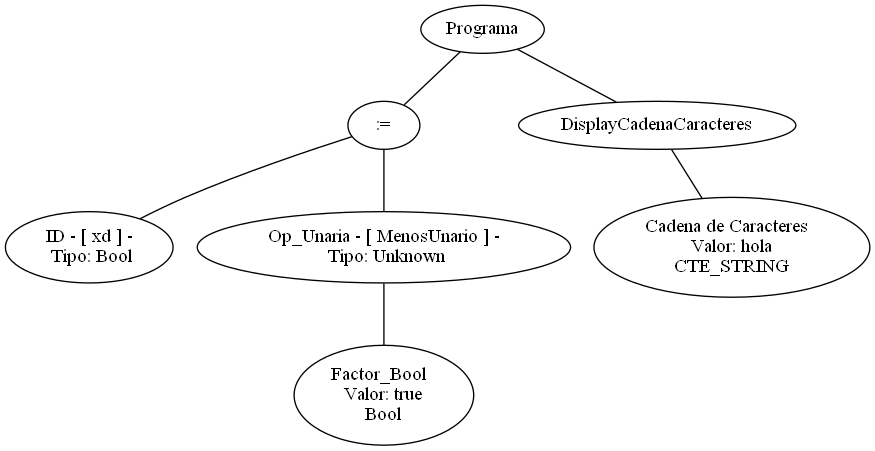
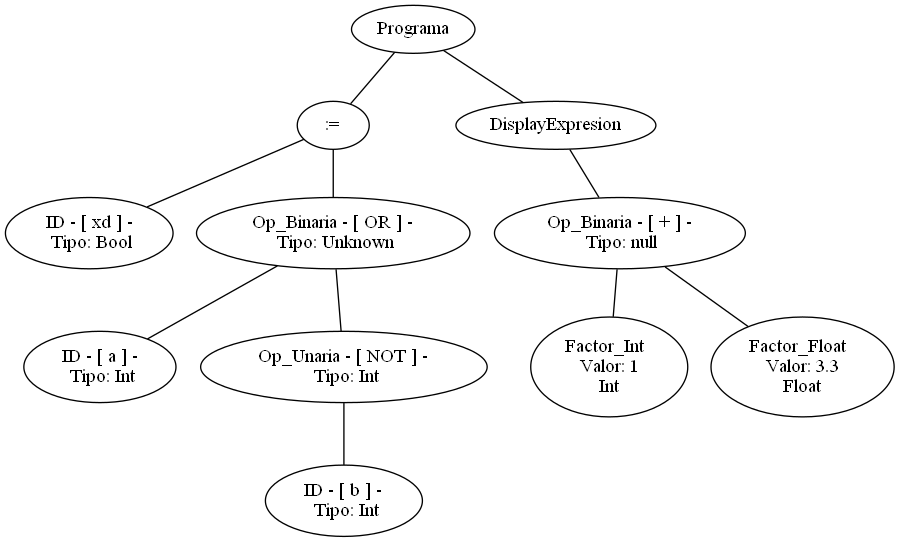
CambiosAST

diff --git a/TrabajoCompiladores/src/archivos/jflexyjcup/MiParser.java b/TrabajoCompiladores/src/archivos/jflexyjcup/MiParser.java
@@ -435,7 +435,6 @@ public class MiParser extends java_cup.runtime.lr_parser {
        }
 
 
-
 /** Cup generated class to encapsulate user supplied action code.*/
 @SuppressWarnings({"rawtypes", "unchecked", "unused"})
 class CUP$MiParser$actions {
@@ -915,7 +914,7 @@ class CUP$MiParser$actions {
             concat_rules("REGLA 6: sentencia_display --> DISPLAY ( exp_or ) " + "\n\t --> " + " display( " + c + " ) ");
             //concat_rules("Regla 6: sentencia_display --> "+ "display( " + c + " )");
             //RESULT = "display(" + c + ")";
-            RESULT = new DisplayExpresion(c);
+            RESULT = new DisplayExpresion("DisplayExpresion",c);
         
               CUP$MiParser$result = parser.getSymbolFactory().newSymbol("sentencia_display",5, ((java_cup.runtime.Symbol)CUP$MiParser$stack.elementAt(CUP$MiParser$top-3)), ((java_cup.runtime.Symbol)CUP$MiParser$stack.peek()), RESULT);
             }
@@ -1037,7 +1036,7 @@ class CUP$MiParser$actions {
         concat_rules("REGLA 7.5: exp_not --> NOT exp_not " + "\n\t --> " + e1);
         //concat_rules("REGLA 7.5: exp_not --> "+e1 );
         //RESULT = e1 ;
-        RESULT = new NOT(e1,Tipo.Bool);
+        RESULT = new NOT("NOT",e1,e1.getTipo());
     
               CUP$MiParser$result = parser.getSymbolFactory().newSymbol("exp_not",18, ((java_cup.runtime.Symbol)CUP$MiParser$stack.elementAt(CUP$MiParser$top-1)), ((java_cup.runtime.Symbol)CUP$MiParser$stack.peek()), RESULT);
             }
@@ -1215,7 +1214,7 @@ class CUP$MiParser$actions {
         concat_rules("REGLA 7.7: expresion --> expresion SUMA termino " + "\n\t --> " + e1 +" + "+ e2);
         //concat_rules("REGLA 7.7: expresion --> "+e1+" + "+e2);
         //RESULT = new Suma(e1,e2);
-        RESULT = new Suma("+",Tipo.Unknown,e1,e2) ;
+        RESULT = new Suma("+",e1,e2) ;
     
               CUP$MiParser$result = parser.getSymbolFactory().newSymbol("expresion",11, ((java_cup.runtime.Symbol)CUP$MiParser$stack.elementAt(CUP$MiParser$top-2)), ((java_cup.runtime.Symbol)CUP$MiParser$stack.peek()), RESULT);
             }
@@ -1234,7 +1233,7 @@ class CUP$MiParser$actions {
 		
         concat_rules("REGLA 7.8: expresion --> expresion RESTA termino " + "\n\t --> " + e1 + " - " + e2);
         //concat_rules("REGLA 7.8: expresion --> "+e1+" - "+e2);
-        RESULT = new Resta("-",Tipo.Unknown,e1,e2) ;
+        RESULT = new Resta("-",e1,e2) ;
     
               CUP$MiParser$result = parser.getSymbolFactory().newSymbol("expresion",11, ((java_cup.runtime.Symbol)CUP$MiParser$stack.elementAt(CUP$MiParser$top-2)), ((java_cup.runtime.Symbol)CUP$MiParser$stack.peek()), RESULT);
             }
@@ -1269,7 +1268,7 @@ class CUP$MiParser$actions {
 		
         concat_rules("REGLA 7.9.1: termino --> termino MULT menor_unario " + "\n\t --> " + t + " * " + mu);
         //concat_rules("REGLA 7.9.1: termino --> " + t + " * " + mu );
-        RESULT = new Multiplicacion("*",Tipo.Unknown,t,mu) ; ;
+        RESULT = new Multiplicacion("*",t,mu) ; ;
     
               CUP$MiParser$result = parser.getSymbolFactory().newSymbol("termino",14, ((java_cup.runtime.Symbol)CUP$MiParser$stack.elementAt(CUP$MiParser$top-2)), ((java_cup.runtime.Symbol)CUP$MiParser$stack.peek()), RESULT);
             }
@@ -1288,7 +1287,7 @@ class CUP$MiParser$actions {
 		
         concat_rules("REGLA 7.9.2: termino --> termino DIV menor_unario " + "\n\t --> " + t + " / " + mu);
         //concat_rules("REGLA 7.9.2: termino --> " + t + " / " + mu );
-        RESULT = new Division("/",Tipo.Unknown,t,mu);
+        RESULT = new Division("/",t,mu);
     
               CUP$MiParser$result = parser.getSymbolFactory().newSymbol("termino",14, ((java_cup.runtime.Symbol)CUP$MiParser$stack.elementAt(CUP$MiParser$top-2)), ((java_cup.runtime.Symbol)CUP$MiParser$stack.peek()), RESULT);
             }
@@ -1320,7 +1319,7 @@ class CUP$MiParser$actions {
 		
         concat_rules("REGLA 8.1: menos_unario --> - menor_unario " + "\n\t --> " + "- " +mu);
         //concat_rules("REGLA 8.1: menos_unario --> -" + mu );
-        RESULT = new MenosUnario("MenosUnario", mu, Tipo.Unknown);
+        RESULT = new MenosUnario("MenosUnario", mu,mu.getTipo());
 
     
               CUP$MiParser$result = parser.getSymbolFactory().newSymbol("menos_unario",13, ((java_cup.runtime.Symbol)CUP$MiParser$stack.elementAt(CUP$MiParser$top-1)), ((java_cup.runtime.Symbol)CUP$MiParser$stack.peek()), RESULT);

diff --git a/TrabajoCompiladores/src/archivos/jflexyjcup/ast/Operaciones/unarias/NOT.java b/TrabajoCompiladores/src/archivos/jflexyjcup/ast/Operaciones/unarias/NOT.java
@@ -5,7 +5,7 @@ import archivos.jflexyjcup.ast.Base.Tipo;
 
 public class NOT extends OperacionUnaria{
     public NOT(Expresion expresion, Tipo tipo) {
-        super(expresion, tipo);
+        super(expresion, expresion.getTipo());
     }
 
     public NOT(String nombre, Expresion expresion) {
@@ -13,6 +13,13 @@ public class NOT extends OperacionUnaria{
     }
 
     public NOT(String nombre, Expresion expresion, Tipo tipo) {
-        super("NOT", expresion, tipo);
+        super("NOT", expresion, expresion.getTipo());
+    }
+    @Override
+    public String graficar(String idPadre) {
+        StringBuilder resultado = new StringBuilder();
+        resultado.append(super.graficar(idPadre));
+        resultado.append(this.getExpresion().graficar(this.getId()));
+        return resultado.toString();
     }
 }

diff --git a/TrabajoCompiladores/src/archivos/jflexyjcup/GenerarDOT.java b/TrabajoCompiladores/src/archivos/jflexyjcup/GenerarDOT.java
@@ -2,6 +2,8 @@ package archivos.jflexyjcup;
 
 import archivos.jflexyjcup.ast.Base.Programa;
 
+import java.awt.*;
+import java.io.File;
 import java.io.FileReader;
 import java.io.FileWriter;
 import java.io.PrintWriter;
@@ -20,6 +22,7 @@ public class GenerarDOT {
             grafico.close();
             String cmdDot = "dot -Tpng arbol.dot -o arbol.png";
             Runtime.getRuntime().exec(cmdDot);
+            Desktop.getDesktop().open(new File("C:\\Users\\santi\\Documents\\GitHub\\Compiladores\\arbol.png"));
 
         } catch (Exception e) {
             System.out.println(e.getMessage());

diff --git a/TrabajoCompiladores/src/archivos/jflexyjcup/ast/Operaciones/unarias/MenosUnario.java b/TrabajoCompiladores/src/archivos/jflexyjcup/ast/Operaciones/unarias/MenosUnario.java
@@ -5,15 +5,15 @@ import archivos.jflexyjcup.ast.Base.Tipo;
 
 public class MenosUnario extends OperacionUnaria{
     public MenosUnario(Expresion expresion, Tipo tipo) {
-        super(expresion, tipo);
+        super(expresion, expresion.getTipo());
     }
 
     public MenosUnario(String nombre, Expresion expresion, Tipo tipo) {
-        super("MenosUnario", expresion, Tipo.Unknown);
+        super(nombre, expresion, expresion.getTipo());
     }
 
     public MenosUnario(String nombre, Expresion expresion) {
-        super("-", expresion);
+        super(nombre, expresion);
     }
 
     @Override

diff --git a/TrabajoCompiladores/src/archivos/jflexyjcup/AbrirParteGráfica.java b/TrabajoCompiladores/src/archivos/jflexyjcup/AbrirParteGráfica.java
@@ -268,6 +268,7 @@ public class AbrirParteGráfica extends JFrame implements ActionListener {
             grafico.close();
             String cmdDot = "dot -Tpng arbol.dot -o arbol.png";
             Runtime.getRuntime().exec(cmdDot);
+            Desktop.getDesktop().open(new File("C:\\Users\\santi\\Documents\\GitHub\\Compiladores\\arbol.png"));
         } catch (Exception e) {
             UIManager.put("OptionPane.background", Color.GRAY);
             UIManager.put("OptionPane.messagebackground", Color.GRAY);

diff --git a/TrabajoCompiladores/src/archivos/jflexyjcup/ast/Operaciones/unarias/OperacionUnaria.java b/TrabajoCompiladores/src/archivos/jflexyjcup/ast/Operaciones/unarias/OperacionUnaria.java
@@ -7,7 +7,7 @@ public abstract class  OperacionUnaria extends Expresion{
     private Expresion expresion;
 
     public OperacionUnaria(String nombre, Expresion expresion) {
-        super(Tipo.valueOf(nombre));
+        super(nombre);
         this.expresion = expresion;
     }
 
